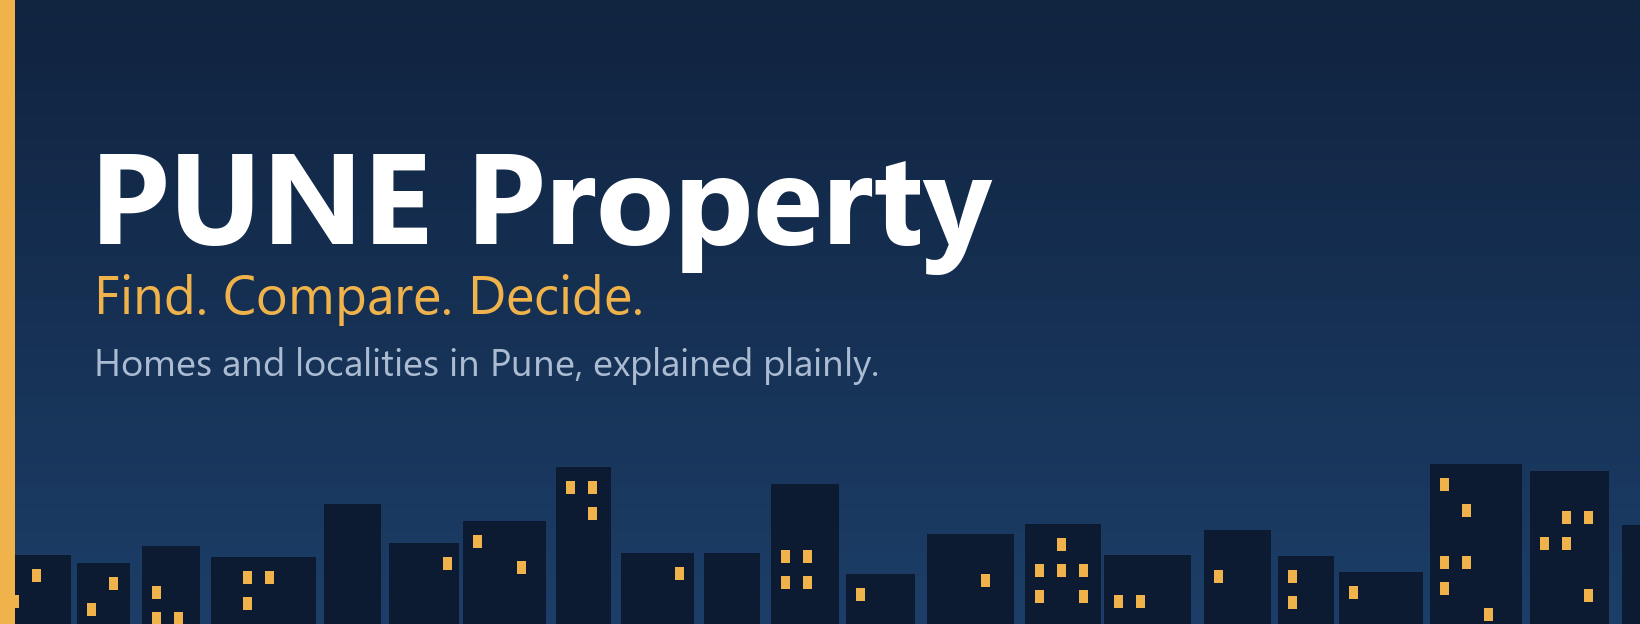
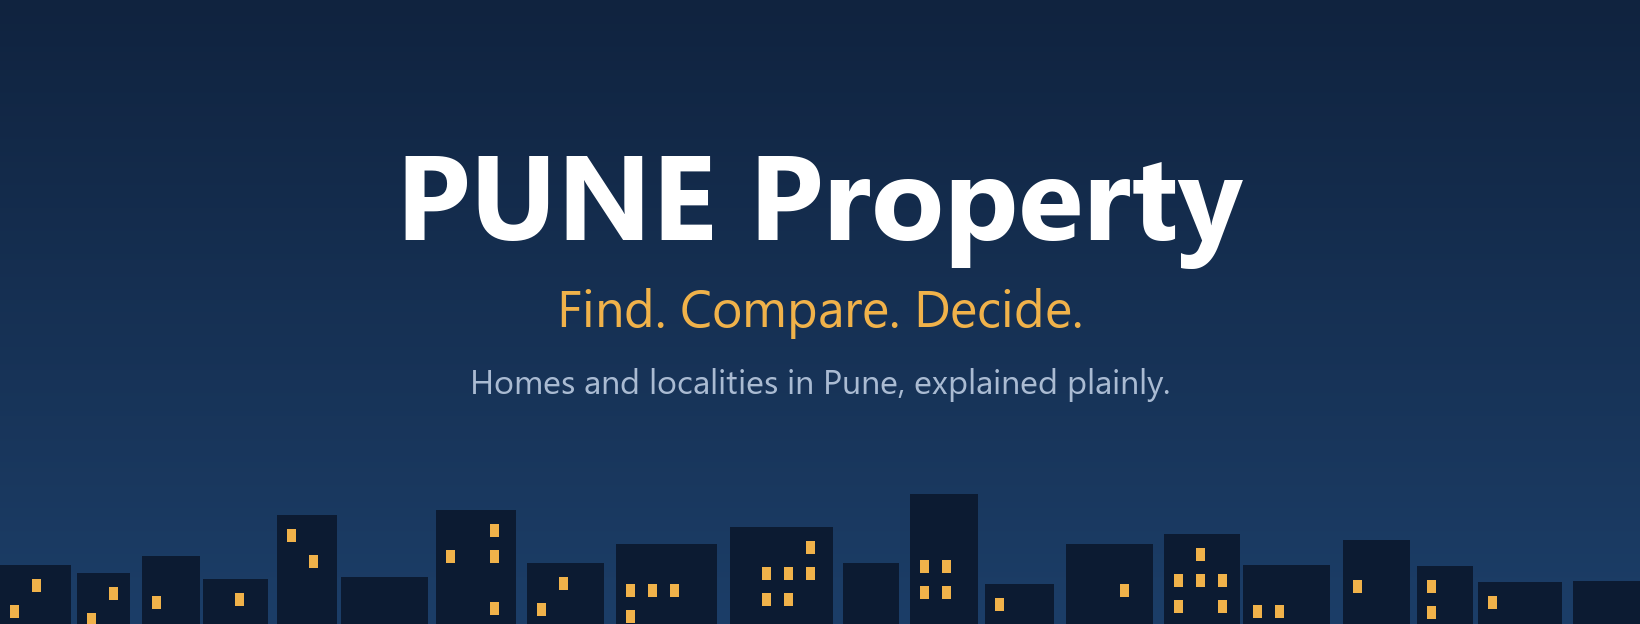
Redesign marketing image cards; fit the Facebook cover to phone and desktop crops
Cards: the photo now shows brightly (scrim only behind the text) instead of
being buried under a dark overlay; info cards are a brand panel with the photo
as a header strip sized to the content; the story card gives the photo the top
half. Facts rows and the story/CTA text are sized to always end inside the
margins (the RERA row was cut off with a photo). Very noisy photos still stay
under 400 KB. Brand cover text is centred inside the phone safe zone.
New tests render every card with a photo (previous margin tests had none).

Changed region(s): [[0.0, 0.0, 1.0, 1.0], [0.0622, 0.2436, 0.7774, 0.6394]]

diff --git a/backend/app/modules/marketing/images.py b/backend/app/modules/marketing/images.py
@@ -53,6 +53,21 @@ def first_photo_url(media: List[dict]) -> Optional[str]:
     return min(imgs, key=lambda t: (t[0], t[1]))[2].get("url") if imgs else None
 
 
+def _load_source(path: Optional[Path]) -> Optional[Image.Image]:
+    """The listing photo as an RGB image (EXIF-rotated, capped in size), or None if missing/unreadable/oversized."""
+    if path is None:
+        return None
+    try:
+        if path.stat().st_size > MAX_SOURCE_BYTES:
+            return None
+        with Image.open(path) as im:
+            im = ImageOps.exif_transpose(im).convert("RGB")
+            im.thumbnail((2400, 2400), Image.LANCZOS)
+            return im
+    except Exception:
+        return None
+
+
 def _open_background(path: Optional[Path], size: Tuple[int, int]) -> Optional[Image.Image]:
     if path is None:
         return None
@@ -167,21 +182,73 @@ class Card:
         font, ls = fit_text(self.draw, text, self.right - x, lines, size, min_size)
         return len(ls) * (int(font.size * 1.3) if hasattr(font, "size") else int(size * 1.3))
 
-    def stack(self, items: List[dict], anchor: str = "bottom", gap: int = 22) -> int:
-        """Lay items (dicts: text,size,fill,lines,min_size) top-down inside the safe area; anchor bottom or top."""
+    def stack(self, items: List[dict], anchor: str = "bottom", gap: int = 22, y0: Optional[int] = None) -> int:
+        """Lay items (dicts: text,size,fill,lines,min_size) top-down inside the safe area.
+        anchor: bottom | top | center (centred between y0 (default: top) and the bottom margin)."""
         items = [i for i in items if i.get("text")]
         total = sum(self.height_of(i["text"], i["size"], i.get("lines", 1), i.get("min_size", 24)) + gap for i in items) - gap
-        y = self.bottom - total if anchor == "bottom" else self.top
-        y = max(self.top, y)
+        start = self.top if y0 is None else max(self.top, y0)
+        if anchor == "bottom":
+            y = self.bottom - total
+        elif anchor == "center":
+            y = start + max(0, (self.bottom - start - total) // 2)
+        else:
+            y = start
+        y = max(start, y)
         for i in items:
             y = self.block(i["text"], y, i["size"], i.get("fill", WHITE), i.get("lines", 1), i.get("min_size", 24)) + gap
         return y
 
 
 # ---- card layouts ----------------------------------------------------------------------------------
-def _base(size, bg: Optional[Image.Image], seed: str, top=MARGIN, bottom=MARGIN) -> Card:
-    img = dark_overlay(bg) if bg is not None else gradient_card(size, seed)
-    return Card(size, img, top, bottom)
+# Design: photo cards show the photo brightly with a scrim only behind the text; info cards are a calm brand panel
+# with the photo as a header strip (so the property is always visible and text never fights a busy image).
+HEADER_H = 330
+FADE = 120
+SCRIM_COLOR = (8, 10, 16)
+
+
+def _fit(src: Image.Image, size: Tuple[int, int]) -> Image.Image:
+    return ImageOps.fit(src, size, Image.LANCZOS, centering=(0.5, 0.45))
+
+
+def _scrim_bottom(img: Image.Image, start: float = 0.4, strength: float = 0.9) -> Image.Image:
+    """Dark gradient over the lower part only (0 above `start` of the height, `strength` at the bottom)."""
+    s0 = int(255 * start)
+    lut = [0 if v < s0 else int((v - s0) / max(1, 255 - s0) * 255 * strength) for v in range(256)]
+    mask = Image.linear_gradient("L").resize(img.size).point(lut)
+    return Image.composite(Image.new("RGB", img.size, SCRIM_COLOR), img, mask)
+
+
+def _panel_with_header(size: Tuple[int, int], src: Optional[Image.Image], seed: str, header_h: int) -> Image.Image:
+    """Brand gradient panel; the photo (if any) sits at the top and fades smoothly into the panel."""
+    panel = gradient_card(size, seed)
+    if src is None:
+        return panel
+    w = size[0]
+    strip = _fit(src, (w, header_h))
+    lut = []
+    for v in range(256):
+        y = v / 255 * header_h
+        lut.append(255 if y < header_h - FADE else int(255 * max(0.0, (header_h - y) / FADE)))
+    mask = Image.linear_gradient("L").resize((w, header_h)).point(lut)
+    panel.paste(strip, (0, 0), mask)
+    return panel
+
+
+def _pill(c: "Card", text: str, y: int) -> int:
+    """'Listed by ...' label on a translucent dark pill so it stays readable on any photo. Returns y below it."""
+    font = load_font(34)
+    w = int(c.draw.textlength(text, font=font)) + 56
+    h = 68
+    if c.left + w > c.right:
+        w = c.right - c.left
+    ov = Image.new("RGB", (w, h), SCRIM_COLOR)
+    mask = Image.new("L", (w, h), 0)
+    ImageDraw.Draw(mask).rounded_rectangle([0, 0, w - 1, h - 1], radius=h // 2, fill=185)
+    c.img.paste(ov, (c.left, y), mask)
+    c.block(text, y + 15, 34, WHITE, 1, 22, x=c.left + 28)
+    return y + h
 
 
 def _facts_rows(f: Facts) -> List[Tuple[str, str]]:
@@ -196,58 +263,127 @@ def _agent_line(f: Facts) -> str:
     return latin(f.agent_name)
 
 
-def render(kind: str, f: Facts, bg: Optional[Image.Image]) -> Card:
+def render(kind: str, f: Facts, src: Optional[Image.Image]) -> Card:
+    """`src` is the (already safely loaded) listing photo or None; layouts fit it themselves."""
     seed = f"{f.agent_name}|{f.locality}"
     story = kind == "status"
     size = STORY if story else SQUARE
-    c = _base(size, bg, seed, STORY_TOP if story else MARGIN, STORY_BOTTOM if story else MARGIN)
+    top, bottom = (STORY_TOP, STORY_BOTTOM) if story else (MARGIN, MARGIN)
     title = latin(f.title_line("en"))
     agent = _agent_line(f)
-    if kind in ("cover", "status"):
+
+    if kind == "cover":
+        img = _scrim_bottom(_fit(src, size), 0.36, 0.92) if src is not None else gradient_card(size, seed)
+        c = Card(size, img, top, bottom)
         if agent:
-            c.block(f"Listed by {agent}", c.top, 34, SOFT, 1)
-        base = 150 if story else 118
-        c.stack([{"text": f.price_text, "size": base, "fill": ACCENT, "min_size": 60},
-                 {"text": title, "size": 60 if story else 54, "lines": 3, "min_size": 34},
+            _pill(c, f"Listed by {agent}", c.top)
+        c.stack([{"text": f.price_text, "size": 124, "fill": ACCENT, "min_size": 60},
+                 {"text": title, "size": 56, "lines": 3, "min_size": 34},
                  {"text": latin(f.project), "size": 40, "fill": SOFT, "min_size": 26},
-                 {"text": " | ".join(x for x in (f.area_text, f.possession_text("en")) if x), "size": 40, "fill": SOFT, "lines": 2},
-                 {"text": "Message for details" if story else "", "size": 44, "fill": ACCENT}])
-    elif kind == "facts":
-        y = c.block("Key details", c.top, 66, ACCENT)
-        rows = _facts_rows(f)
-        vs = max(32, min(52, int((c.bottom - y - 30) / max(1, len(rows)) / 2.2)))
-        y += 24
-        for label, value in rows:
-            y = c.block(label, y, max(22, vs // 2 + 4), SOFT, 1, 20)
-            y = c.block(latin(value), y, vs, WHITE, 1, 26) + 10
+                 {"text": " | ".join(x for x in (f.area_text, f.possession_text("en")) if x), "size": 40, "fill": SOFT, "lines": 2}])
+        return c
+
+    if story:
+        items = [{"text": f.price_text, "size": 140, "fill": ACCENT, "min_size": 70},
+                 {"text": title, "size": 60, "lines": 3, "min_size": 34},
+                 {"text": latin(f.project), "size": 42, "fill": SOFT, "min_size": 26},
+                 {"text": " | ".join(x for x in (f.area_text, f.possession_text("en")) if x), "size": 42, "fill": SOFT, "lines": 2},
+                 {"text": "Message for details", "size": 48, "fill": ACCENT}]
+        gap = 26
+        # measure the text first: it always ends at the bottom safe margin and the photo takes all the room above it
+        probe = Card(size, Image.new("RGB", size), top, bottom)
+        total = sum(probe.height_of(i["text"], i["size"], i.get("lines", 1), i.get("min_size", 24)) + gap
+                    for i in items if i.get("text")) - gap
+        start = max(top + 160, probe.bottom - total)
+        head = min(1300, start + 60)
+        img = _panel_with_header(size, src, seed, head)
+        c = Card(size, img, top, bottom)
+        if agent:
+            _pill(c, f"Listed by {agent}", c.top)
+        c.stack(items, anchor="top", gap=gap, y0=start)
+        return c
+
+    # header height adapts to how much content the card has: short cards get a bigger photo, dense ones a slimmer strip
+    if kind == "facts":
+        header_h = 250 if len(_facts_rows(f)) >= 6 else HEADER_H
     elif kind == "amenities":
-        y = c.block("Amenities", c.top, 66, ACCENT) + 28
+        header_h = 470 if len(f.amenities[:8]) <= 4 else HEADER_H
+    else:
+        header_h = 420
+    cta_items = [{"text": "Interested?", "size": 104, "fill": ACCENT},
+                 {"text": f"Message {agent} for a site visit" if agent else "Message us for a site visit", "size": 58, "lines": 3},
+                 {"text": f"Call {latin(f.agent_phone)}" if f.agent_phone else "", "size": 64, "fill": ACCENT},
+                 {"text": title, "size": 40, "fill": SOFT, "lines": 2},
+                 {"text": f"RERA: {f.rera}" if f.rera else "", "size": 30, "fill": SOFT}]
+    if kind == "cta":  # size the photo to the text: it must never push the text past the bottom margin
+        probe = Card(size, Image.new("RGB", size), top, bottom)
+        total = sum(probe.height_of(i["text"], i["size"], i.get("lines", 1), i.get("min_size", 24)) + 32
+                    for i in cta_items if i.get("text")) - 32
+        header_h = max(200, min(420, probe.bottom - total - 50))
+    header = header_h if src is not None else 0
+    img = _panel_with_header(size, src, seed, header_h) if src is not None else gradient_card(size, seed)
+    c = Card(size, img, top, bottom)
+    y0 = header + 10 if header else c.top
+
+    if kind == "facts":
+        y = c.block("Key details", y0, 64, ACCENT) + 20
+        rows = _facts_rows(f)
+        pitch = max(66, min(150, (c.bottom - y) // max(1, len(rows))))  # rows always fit above the bottom margin
+        ls = 22 if pitch < 100 else 26
+        vs = max(30, min(54, pitch - 52))
+        for label, value in rows:
+            c.draw.line([(c.left, y), (c.right, y)], fill=(96, 118, 158), width=2)
+            c.block(label, y + 10, ls, SOFT, 1, 18)
+            c.block(latin(value), y + 10 + ls + 10, vs, WHITE, 1, 24)
+            y += pitch
+    elif kind == "amenities":
+        y = c.block("Amenities", y0, 68, ACCENT) + 40
         items = [latin(a) for a in f.amenities[:8]]
-        sz = max(30, min(46, int((c.bottom - y) / max(1, len(items)) / 1.5)))
-        for a in items:
-            c.draw.ellipse((c.left, y + sz // 2 - 6, c.left + 14, y + sz // 2 + 8), fill=ACCENT)
-            y = c.block(a, y, sz, WHITE, 1, 24, x=c.left + 44) + 8
+        col_w = (c.right - c.left - 40) // 2
+        rows_n = (len(items) + 1) // 2
+        pitch = max(84, min(128, (c.bottom - y) // max(1, rows_n)))
+        sz = 44 if pitch >= 100 else 38
+        y += max(0, (c.bottom - y - rows_n * pitch) // 2)  # few items: centre the grid in the free space
+        saved_right = c.right
+        for idx, a in enumerate(items):
+            col, row = idx % 2, idx // 2
+            x = c.left + col * (col_w + 40)
+            yy = y + row * pitch
+            c.draw.ellipse((x, yy + sz // 2 - 5, x + 14, yy + sz // 2 + 9), fill=ACCENT)
+            c.right = x + col_w
+            c.block(a, yy, sz, WHITE, 2, 26, x=x + 40)
+        c.right = saved_right
     elif kind == "cta":
-        c.stack([{"text": "Interested?", "size": 96, "fill": ACCENT},
-                 {"text": f"Message {agent} for a site visit" if agent else "Message us for a site visit", "size": 54, "lines": 3},
-                 {"text": f"Call {latin(f.agent_phone)}" if f.agent_phone else "", "size": 60, "fill": ACCENT},
-                 {"text": title, "size": 38, "fill": SOFT, "lines": 2},
-                 {"text": f"RERA: {f.rera}" if f.rera else "", "size": 30, "fill": SOFT}], gap=28)
+        c.stack(cta_items, anchor="center", gap=32, y0=y0)
     else:
         raise ValueError(f"unknown card kind {kind}")
     return c
 
 
-def save_jpeg(img: Image.Image, path: Path) -> int:
-    """Save with quality 85, stepping down until the file is under MAX_BYTES. Returns bytes written."""
-    path.parent.mkdir(parents=True, exist_ok=True)
-    for q in (85, 80, 74, 68, 60, 50, 40):
+def _encode(img: Image.Image, qualities) -> Tuple[bytes, bool]:
+    data = b""
+    for q in qualities:
         buf = io.BytesIO()
         img.save(buf, "JPEG", quality=q, optimize=True)
-        if buf.tell() <= MAX_BYTES:
-            break
-    path.write_bytes(buf.getvalue())
-    return buf.tell()
+        data = buf.getvalue()
+        if len(data) <= MAX_BYTES:
+            return data, True
+    return data, False
+
+
+def save_jpeg(img: Image.Image, path: Path) -> int:
+    """Save with quality 85, stepping down until the file is under MAX_BYTES. Pathological, very noisy photos that
+    still do not fit are softened slightly (a hard size guarantee beats sharpness there). Returns bytes written."""
+    path.parent.mkdir(parents=True, exist_ok=True)
+    data, ok = _encode(img, (85, 80, 74, 68, 60, 50, 40, 32))
+    if not ok:
+        from PIL import ImageFilter
+        for radius in (1.0, 1.6, 2.4):
+            data, ok = _encode(img.filter(ImageFilter.GaussianBlur(radius)), (60, 50, 40, 32, 25))
+            if ok:
+                break
+    path.write_bytes(data)
+    return len(data)
 
 
 def render_all(f: Facts, media: List[dict], uploads_dir: Path, listing_id: str) -> Dict[str, dict]:
@@ -256,12 +392,12 @@ def render_all(f: Facts, media: List[dict], uploads_dir: Path, listing_id: str) 
         raise ValueError("unsafe listing id")
     uploads_dir = Path(uploads_dir)
     out_dir = uploads_dir / "marketing" / listing_id
-    src = local_upload_path(first_photo_url(media), uploads_dir)
+    src = _load_source(local_upload_path(first_photo_url(media), uploads_dir))
     kinds = ["cover", "facts"] + (["amenities"] if f.amenities else []) + ["cta", "status"]
     result: Dict[str, dict] = {}
     for kind in kinds:
         size = STORY if kind == "status" else SQUARE
-        card = render(kind, f, _open_background(src, size))
+        card = render(kind, f, src)
         save_jpeg(card.img, out_dir / f"{kind}.jpg")
         result[kind] = {"path": f"/uploads/marketing/{listing_id}/{kind}.jpg", "width": size[0], "height": size[1]}
     if not f.amenities:

diff --git a/backend/tests/modules/test_marketing_images.py b/backend/tests/modules/test_marketing_images.py
@@ -45,16 +45,31 @@ def test_amenities_card_only_when_listing_has_amenities_and_stale_removed(up):
     assert "amenities" not in out and not (up / "marketing/L1/amenities.jpg").exists()
 
 
-def test_local_upload_used_as_background_with_overlay(up):
+def test_local_upload_is_shown_brightly_with_a_scrim_only_behind_the_text(up):
     url = put_photo(up)
     render_all(facts(), media(url), up, "L1")
     render_all(facts(_id="L2"), [], up, "L2")
     with Image.open(up / "marketing/L1/cover.jpg") as a, Image.open(up / "marketing/L2/cover.jpg") as b:
-        r, g, bl = a.getpixel((900, 300))
-        assert r > 2.5 * g and r > 30          # the red photo shows through...
-        assert r < 120                          # ...under a dark overlay
-        r2, g2, _ = b.getpixel((900, 300))
+        r, g, bl = a.getpixel((900, 200))
+        assert r > 2.5 * g and r > 150          # the photo is clearly visible in the upper part (not buried)...
+        r_low, g_low, _ = a.getpixel((900, 1040))
+        assert r_low < 110                       # ...and darkened near the bottom where the text sits, so it stays legible
+        r2, g2, _ = b.getpixel((900, 200))
         assert r2 < 2.5 * g2                    # fallback is a calm gradient, not the photo
+
+
+def test_info_cards_show_the_photo_as_a_header_strip_and_story_uses_top_half(up):
+    url = put_photo(up)
+    render_all(facts(), media(url), up, "L1")
+    for kind in ("facts", "amenities", "cta"):
+        with Image.open(up / f"marketing/L1/{kind}.jpg") as im:
+            r, g, _ = im.getpixel((900, 100))
+            assert r > 2.5 * g and r > 150, kind      # header strip
+            r2, g2, _ = im.getpixel((900, 900))
+            assert r2 < 2.5 * g2, kind                # the panel below is the calm brand gradient
+    with Image.open(up / "marketing/L1/status.jpg") as im:
+        r, g, _ = im.getpixel((900, 400))
+        assert r > 2.5 * g and r > 150
 
 
 def test_first_photo_is_the_one_used(up):
@@ -166,3 +181,28 @@ def test_palette_is_deterministic():
 
 def test_non_latin_agent_name_is_not_drawn_as_boxes():
     assert im.latin("राहुल Sharma") == "Sharma"
+
+
+@pytest.mark.parametrize("over", [{}, LONG, VARIANTS["luxury_villa"], VARIANTS["rent_cheap"]])
+@pytest.mark.parametrize("kind", KINDS)
+def test_text_stays_inside_safe_margins_with_a_photo_header(kind, over):
+    """Regression (visual review): with a photo the facts card cut off its last row (RERA) at the bottom edge.
+    The photo layouts differ from the no-photo ones, so they need their own bounds check."""
+    if kind == "amenities" and not facts(**over).amenities:
+        pytest.skip("no amenities card")
+    photo = Image.new("RGB", (1600, 1200), (150, 190, 225))
+    card = render(kind, facts(**over), photo)
+    w, h = card.size
+    assert card.boxes
+    for x0, y0, x1, y1 in card.boxes:
+        assert x0 >= MARGIN - 4 and x1 <= w - MARGIN + 4, (kind, (x0, x1))
+        assert y0 >= card.top - 6 and y1 <= card.bottom + 6, (kind, (y0, y1), card.top, card.bottom)
+
+
+def test_every_fact_row_is_drawn_on_the_facts_card_with_a_photo():
+    full = facts(rera_no="P52100012345", furnishing="semi", possession="ready", floor=3, total_floors=12, carpet_sqft=1100)
+    card = render("facts", full, Image.new("RGB", (1600, 1200), (150, 190, 225)))
+    rows = len([1 for _ in im._facts_rows(full)])
+    assert rows >= 6
+    # one label box + one value box per row + the title
+    assert len(card.boxes) >= 2 * rows + 1

diff --git a/docs/META_SETUP.md b/docs/META_SETUP.md
@@ -8,7 +8,7 @@ Publishing to your own brand Page and its linked Instagram works **without Meta 
 you (the token owner) are an admin of both the Page and the app. Agents' own Pages need App Review and Business Verification later.
 
 ## A. Clean up the Page (5 min)
-1. Replace the cover with `docs/brand/pune-property-cover.png` and the profile picture with `docs/brand/pune-property-profile.png`.
+1. Replace the cover with `docs/brand/pune-property-cover.png` (1640x624; the text sits in the centre so it survives the phone crop) and the profile picture with `docs/brand/pune-property-profile.png` (shown as a circle).
    The current cover shows post thumbnails with view counts (8.3K, 6.1K...) and a fake Follow button on a Page with 0 followers. That looks
    fabricated and can hurt trust and reach. Use a plain banner instead.
 2. Page > Edit: set the category (Real Estate), add a real contact number and email, and a website link (your future domain, or the agent
